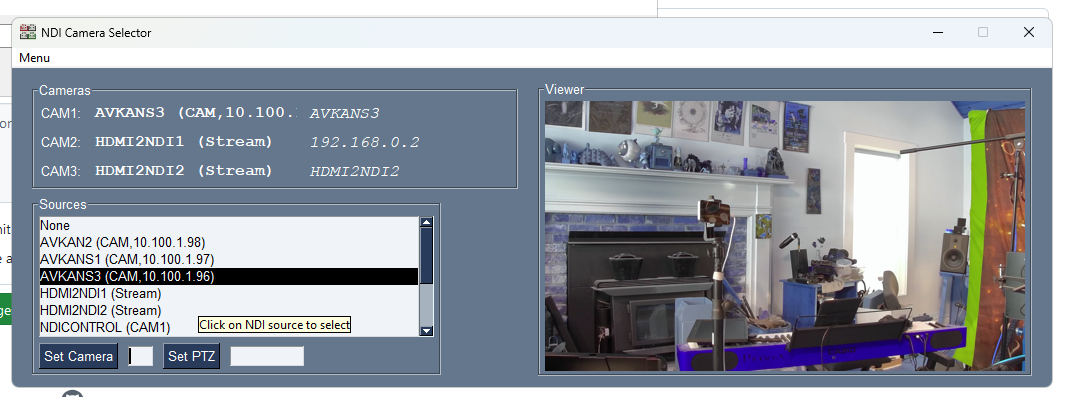
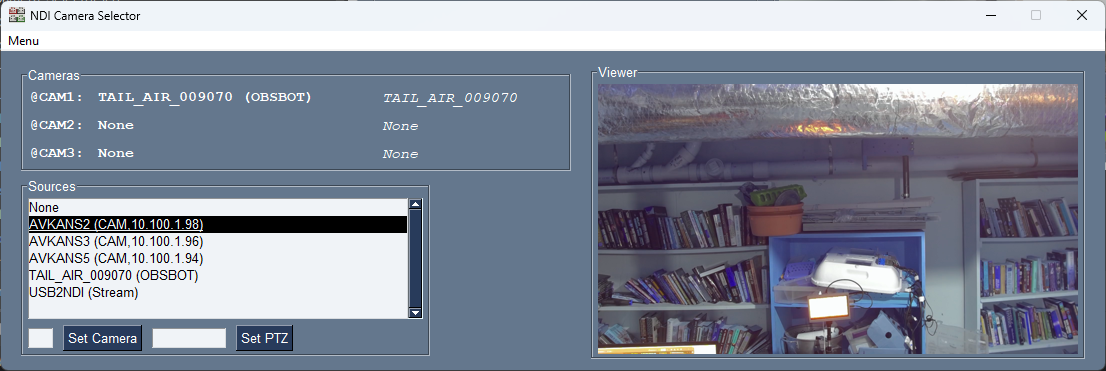
Version 1.0beta1

diff --git a/ndiselector.py b/ndiselector.py
@@ -12,7 +12,7 @@ from config import ProgName
 import config
 import threading
 import companion
-
+from typing import List, Dict
 Debug = False
 
 config = config.Config()
@@ -75,7 +75,7 @@ class NDISourceList:
     """
     def __init__(self):
         desc = Ndi.FindCreate()
-        desc.show_local_sources = False
+        desc.show_local_sources = True
         self.ndi_find = Ndi.find_create_v2(desc)
         self.cache = {"None": ndi_None}
 
@@ -92,7 +92,11 @@ class NDISourceList:
 
         sources = Ndi.find_get_current_sources(self.ndi_find)
         for i, s in enumerate(sources):
+            # VMix
             if re.search("Remote Connection", s.ndi_name):
+                continue
+            # Filter out sources advertised by this app
+            if re.search(config.cam_name(), s.ndi_name):
                 continue
 
             if s.ndi_name in self.cache:
@@ -143,19 +147,20 @@ class CameraList:
     """ List of active cameras. """
     def __init__(self, count, routerlist: ndirouter.NDIRouterList = None,
                  viscalist: viscarelay.ViscaRelayList = None):
-        self.camera_list = []
+        self.camera_list : List[Dict] = []
         self.max_camera = count
         self.routerlist = routerlist
         self.viscalist = viscalist
 
         for idx in range(count):
-            tmpdict = {"name": 'CAM' + str(idx + 1) + ':', "ndi_source": ndi_None}
+            tmpdict = {"name": config.cam_name() + str(idx + 1) + ':',
+                       "ndi_source": ndi_None}
             self.camera_list.insert(idx, tmpdict)
 
     def max(self):
         return self.max_camera
 
-    def cam_name(self, cam_num):
+    def cam_name(self, cam_num) -> str:
         return self.camera_list[cam_num]["name"]
 
     def cam_source_get(self, cam_num: int) -> NDISource:
@@ -172,7 +177,8 @@ class CameraList:
 
 # List of cameras and NDI sources
 cameras: CameraList = CameraList(count=camera_count,
-                                 routerlist=ndirouter.NDIRouterList(camera_count),
+                                 routerlist=ndirouter.NDIRouterList(camera_count,
+                                                                    config.cam_name()),
                                  viscalist=viscarelay.ViscaRelayList(camera_count,
                                                                      bitfocus,
                                                                      config.relay_port_base(),
@@ -258,9 +264,9 @@ if __name__ == "__main__":
     for x in range(cameras.max()):
         ndi_src = cameras.cam_source_get(x)
         frame_layout.insert(x,
-                            [Sg.Text(cameras.cam_name(x)),
-                             Sg.Text(ndi_src.name_get(), font=('Courier', 12, 'bold'), size=20, key='--CAMSRC' + str(x)),
-                             Sg.Text(ndi_src.ptz_get(), font=('Courier', 12, 'italic'), size=20, key='--CAMPTZ' + str(x))])
+                            [Sg.Text(cameras.cam_name(x), font=('Courier', 11, 'bold'), size=6),
+                             Sg.Text(ndi_src.name_get(), font=('Courier', 11, 'bold'), size=30, key='--CAMSRC' + str(x)),
+                             Sg.Text(ndi_src.ptz_get(), font=('Courier', 11, 'italic'), size=20, key='--CAMPTZ' + str(x))])
 
     sources_layout = [[Sg.Listbox(ndi_sources.srclist(), size=(54, 7), key='--NDILIST--', enable_events=True,
                                   tooltip='Click on NDI source to select')],
@@ -296,7 +302,8 @@ if __name__ == "__main__":
     window['PTZ_INPUT'].bind("<Return>", '_Set')
     window['CAM_INPUT'].bind('<Return>', '_Set')
 
-    update_thread = window.start_thread(lambda: update_ndi_thread(window), ('-THREAD-', '-THEAD ENDED-'))
+    update_thread = window.start_thread(lambda: update_ndi_thread(window),
+                                        ('-THREAD-', '-THREAD ENDED-'))
 
     # Event Loop to process "events" and get the "values" of the inputs
 
@@ -337,7 +344,7 @@ if __name__ == "__main__":
             if ndi is not None:
                 ndi_source = ndi.ndi_source_get()
                 window.start_thread(lambda: ndi_image.getframe_task(window, ndi_source, ViewerSize),
-                                    ('-THREAD-', '-THEAD ENDED-'))
+                                    ('-THREAD-', '-THREAD ENDED-'))
 
         elif event == '-LOAD-STATE-TIMER-':
             load_camera_state()

diff --git a/config.py b/config.py
@@ -5,7 +5,7 @@ import sys
 import gc
 
 ProgName = 'NDI Camera Selector'
-ProgVers = "0.85"
+ProgVers = "1.0beta1"
 
 credits_text = """
 Dan Tappan (https://dantappan.net) - (c) 2024, 2025
@@ -38,7 +38,13 @@ class Config:
         self._relay_port_base = self.user_settings.get("-RELAYPORT-", 10001)
         self._bitfocus_enable = self.user_settings.get('-BITFOCUSENABLE-', False)
         self._bitfocus_target = self.user_settings.get('-BITFOCUSTARGET-', '127.0.0.1')
-        self._bitfocus_page = self.user_settings.get('-BITFOCUSPAGE-', '99')
+        self._bitfocus_page = self.user_settings.get('-BITFOCUSPAGE-', '0')
+        # pattern for the sources we advertise
+        # TODO: make this configurable
+        self._cam_name = "@CAM"
+
+    def cam_name(self):
+        return self._cam_name
 
     def camera_count(self):
         return self._camera_count

diff --git a/ndirouter.py b/ndirouter.py
@@ -18,10 +18,10 @@ class NDIRoutingInstance(dict):
 
 class NDIRouterList:
     """ Manipulate the list of NDI Router instances"""
-    def __init__(self, count):
+    def __init__(self, count, cam_name):
         self.router_list = []
         for x in range(count):
-            self.router_list.insert(x, NDIRoutingInstance("CAM" + str(x+1)))
+            self.router_list.insert(x, NDIRoutingInstance(cam_name + str(x+1)))
             self.router_list[x].set_routing(None)
 
     def set_routing(self, index, ndi_source: Ndi.Source | None):

diff --git a/version_info.rs b/version_info.rs
@@ -14,7 +14,7 @@ VSVersionInfo(
                         StringStruct(u'LegalCopyright', u'Copyright (c) Dan Tappan'),
                         StringStruct(u'OriginalFilename', u'NDI Camera Selector.exe'),
                         StringStruct(u'ProductName', u'ndiselector'),
-                        StringStruct(u'ProductVersion', u'0.85')])
+                        StringStruct(u'ProductVersion', u'1.0beta1')])
                     ]
         ),
         VarFileInfo([VarStruct(u'Translation', [1033, 1200])])

diff --git a/companion.py b/companion.py
@@ -22,6 +22,7 @@ class Companion:
     def pushbutton(self, page=None, row=None, column:int=0):
         if page is None:
             page = self.page
+
         if row is None:
             row = self.row
 

diff --git a/README.md b/README.md
@@ -9,7 +9,7 @@ It can be used as part of a setup including my [VISCA Game Controller applicatio
 
 It supports the following features:
 
-- the ability to dynamically select between the NDI video sources (e.g. PTZ cameras) on the LAN, and map them into *N* slots: CAM1-CAM*N* (e.g. CAM1, CAM2,...) . This allows the operator to configure a video switching application (such as [OBS](https://obsproject.com/) or [VMix](https://www.vmix.com/)) with a set of video sources or scenes, and dynamically change which cameras appear in each scene
+- the ability to dynamically select between the NDI video sources (e.g. PTZ cameras) on the LAN, and map them into *N* redirection slots: @CAM1-@CAM*N* (e.g. @CAM1, @CAM2,...) . This allows the operator to configure a video switching application (such as [OBS](https://obsproject.com/) or [VMix](https://www.vmix.com/)) with a set of video sources or scenes, and dynamically change which cameras appear in each scene
 - the ability to route IP VISCA packets, to control the cameras, to the appropriate IP destination for each slot. This allows the operator to statically configure the targets for an IP VISCA Joystick controller, and have the VISCA packets automatically mapped to the current set of selected cameras.
 - an additional benefit of this is that many VISCA joystick controllers require that targets be configured by IP address; accessing the camera through the VISCA router allows specifying cameras by name
 - to support the case of an NDI camera mounted on a separate Pan/Tilt controller, or when a camera that supports VISCA and HDMI is connected to the network through an HDMI->NDI adaptor, the VISCA target for each camera can be specified separately
@@ -22,7 +22,9 @@ When run, the application displays the following window
 ![NDI Camera Selector](Screenshots/NDICameraSelector.png)
 
 This has the following sections:
-- **Cameras** - defines the list of configures camera sources. These will be advertised over NDI as "*Host* (CAM*N*)", through an NDI Router. That is, when a program accesses (e.g.) "**VideoStation (CAM1)**" it will be directed to the camera mapped to the **CAM1** slot. There is also a PTZ control address associated with each camera slot, using UDP port 10000+*N* (e.g. the application listens on port 10001 for VISCA packets intended for CAM1). Any VISCA packets received on this port will be automatically forwarded to port 52381 (currently hardwired) on the PTZ control address associated with the slot; VISCA replies received from the PTZ controller will be forwarded back. The effect is that if you remap (e.g.) CAM1 to a different source, VISCA control packets will automatically be forwarded to/from the new source, invisibly to the Joystick controller.
+- **Cameras** - defines the list of configures camera sources.
+These will be advertised over NDI as "*Host* (@CAM*N*)", through an NDI Router. That is, when a program accesses (e.g.) "**VideoStation(@CAM1)**" it will be directed to the camera mapped to the **@CAM1** slot.
+There is also a PTZ control address associated with each camera slot, using UDP port 10000+*N* (e.g. the application listens on port 10001 for VISCA packets intended for @CAM1). Any VISCA packets received on this port will be automatically forwarded to port 52381 (currently hardwired) on the PTZ control address associated with the slot; VISCA replies received from the PTZ controller will be forwarded back. The effect is that if you remap (e.g.) @CAM1 to a different source, VISCA control packets will automatically be forwarded to/from the new source, invisibly to the Joystick controller.
 - **Sources** - lists the set of NDI sources which are visible on the local network via NDI discovery. Currently the application does not support the use of an NDI Discovery Server. Click on a source to select it.
 - **Viewer** - displays a snapshot from the current selected NDI source
 - to map a source to a camera slot
@@ -44,7 +46,7 @@ The **Configure** menu item (see above) presents the following dialog
 
 ![Configure Dialog](Screenshots/Configure.png)
 
-- **Camera Count** sets the number of camera forwarders (CAM*1* - CAM*N*) which can be set.
+- **Camera Count** sets the number of camera forwarders (@CAM*1* - @CAM*N*) which can be set.
 - **Enable Bitfocus Companion Interface** enables switching the **Preview** window on VMix/OBS/ATEM when the program detects that the selected camera has changed
 - **Bitfocus Companion Address** selects the address of the machine running BitFocus Companion, if the Companion Interface is enabled
 - **Bitfocus Companion Page** selects the button page that will be used for selecting the **Preview** window. See below
@@ -56,7 +58,7 @@ The **Configure** menu item (see above) presents the following dialog
 As noted above, the program has an optional feature to detect when the camera selected by a VISCA controller has changed, and automatically switch the **Preview** window of the streaming software/hardware. 
 
 This is not enabled by default for several reasons:
-- It assumes that the setup includes [BitFocus Companion](https://bitfocus.io/companion) with a preconfigured button page, such that selecting Button Column *N* from Row 0 will set the preview window to camera *N*. There is a [sample Companion configuration](Sample.companionconfig) included in the repository which supports BlackMagic ATEM (page 97), VMix (page 98) and OBS (page 99)
+- It assumes that the setup includes [BitFocus Companion](https://bitfocus.io/companion) with a preconfigured button page, such that selecting Button Column *N* from Row 0 will set the preview window to camera *N*. 
 - It assumes that the setup includes a single VISCA camera controller, and that the controller will only communicate with one camera at a time. This is probably a common configuraton, but it's not universal.
 - If you are using my [VISCA-Game-Controller](https://github.com/DanTappan/VISCA-Game-Controller) application, the feature is redundant
 

diff --git a/ReleaseNotes.md b/ReleaseNotes.md
@@ -1,5 +1,11 @@
 # Release Notes
 
+## Version 1.0beta1
+* support NDI sources on the same PC
+* change advertised Camera names to "@CAM..."
+* filter ndi selector sources bases on camera name
+* fix formatting with long NDI source names
+
 ## Version 0.85
 * Rearrange the Set Camera/Set PTZ UI to improve intuition
 * Fix a couple exceptions
